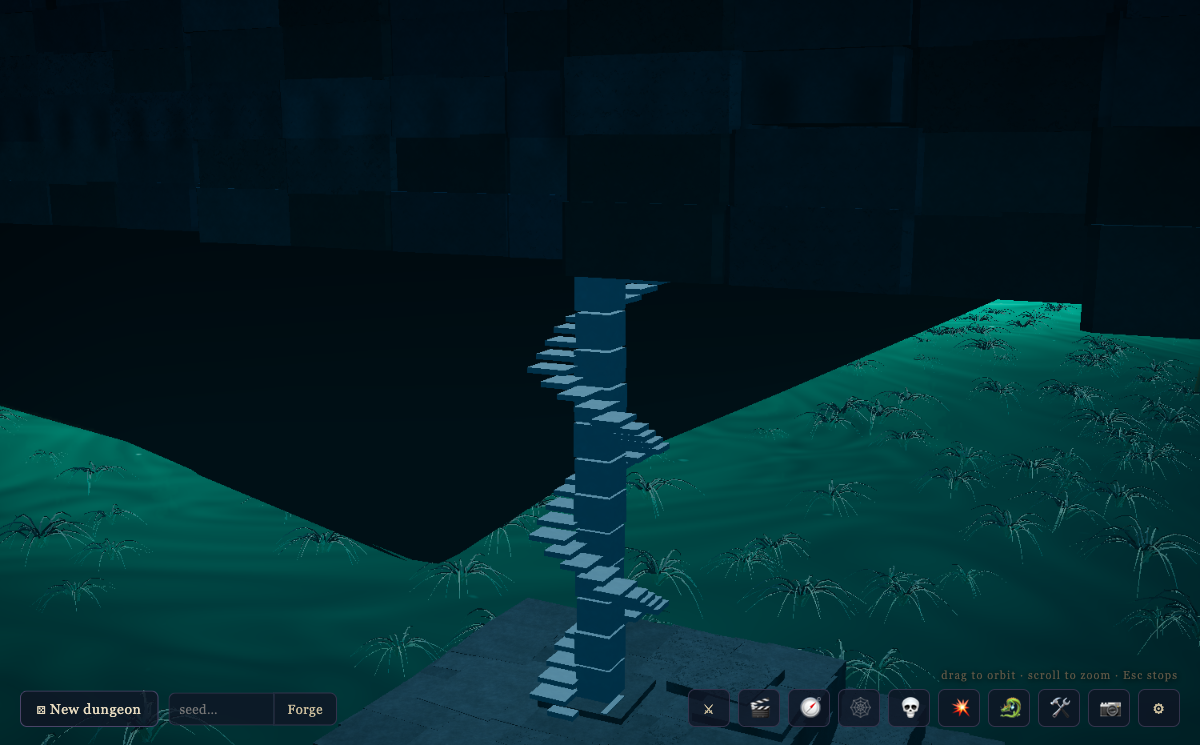
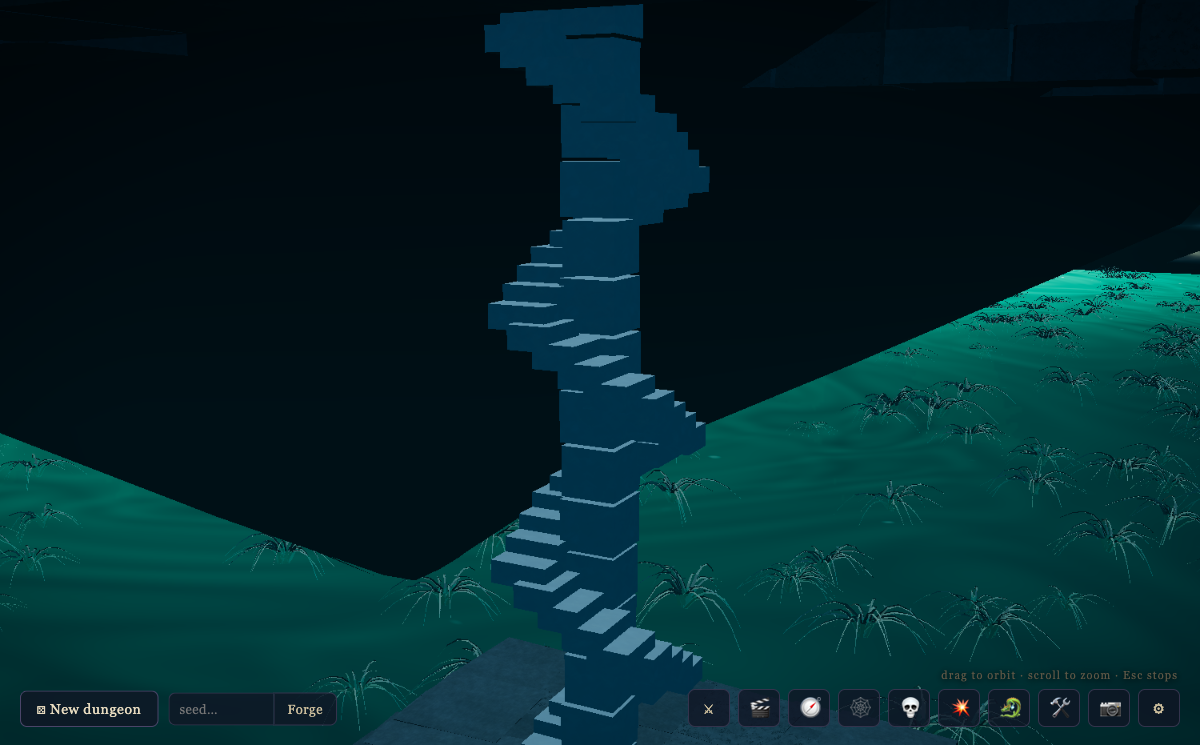
fix: the spiral is cut steps, not slabs threaded on a post
Each tread was a slab 0.10-0.17 thick against a rise of ~0.26, so more
than half of every step's height was open air. From outside — which is
where the entrance tower is — the flight read as a stack of plates on a
stick, see-through and visibly not climbable.

Each step is now a block carrying its own riser down to the step below,
which is how a cut-stone spiral is actually built. Same box, taller,
translated so the walking surface stays exactly where the analytic
spiralHeight() sampler already put it: the geometry now agrees with a
height field that was always correct. No triangles added.

An outer parapet was tried on top of that and reverted. One rail per step
joins into a continuous wall that hides the treads completely, turning a
readable flight into a slotted column — worse than what it replaced. The
steps are the silhouette, and anything on their outer edge competes with
them. Left as a comment so the next person does not spend the same hour.

Claude-Session: https://claude.ai/code/session_01YQ6zZPzyDhh5usxDeBrcVw

diff --git a/src/world/stairs.ts b/src/world/stairs.ts
@@ -82,15 +82,34 @@ export class StairTowers {
     const parts: THREE.BufferGeometry[] = [];
     const rc = m; // exactly the same centreline used by spiralHeight()
     const span = a - core + 0.2;
+    // Each step is a BLOCK, not a slab: it carries its own riser down to meet
+    // the step below, the way a cut-stone spiral actually works. A slab of
+    // thickness treadT (0.10-0.17) against a rise of ~0.26 left more than half
+    // the height as open air, so the flight read as a stack of plates threaded
+    // on a post — see-through, and visibly not a thing you could climb.
+    //
+    // Costs nothing: the same box, taller, translated so its walking surface
+    // stays exactly where the analytic spiralHeight() sampler expects it. The
+    // ground sampler is untouched by design — the geometry now agrees with the
+    // height field that was always there.
+    const stepH = rise + treadT;
     const addTread = (s: number, localY: number): void => {
       const p = stairXZAtS(s, m);
       const ringSide = Math.floor((((s % P) + P) % P) / (2 * m));
       // sides 0/2 run along x (tread depth radial in z); sides 1/3 run along z
       const tread = ringSide % 2 === 0
-        ? new THREE.BoxGeometry(treadW, treadT, span)
-        : new THREE.BoxGeometry(span, treadT, treadW);
-      tread.translate(p.x, localY - 0.12, p.z);
+        ? new THREE.BoxGeometry(treadW, stepH, span)
+        : new THREE.BoxGeometry(span, stepH, treadW);
+      // Keep the top face where the slab's top face used to be.
+      const top = localY - 0.12 + treadT / 2;
+      tread.translate(p.x, top - stepH / 2, p.z);
       parts.push(tread);
+
+      // No parapet here, and that is a decision rather than an omission. A
+      // 0.62 rail on the outer edge of every step was tried and reverted: one
+      // per step joins into a continuous wall that hides the treads entirely,
+      // turning a readable flight into a slotted column. The steps ARE the
+      // silhouette, and anything at their outer edge competes with them.
     };
     const fullSteps = Math.floor(height / rise);
     for (let i = 0; i <= fullSteps; i++) addTread(phase + i * STAIR.STEP, i * rise);
